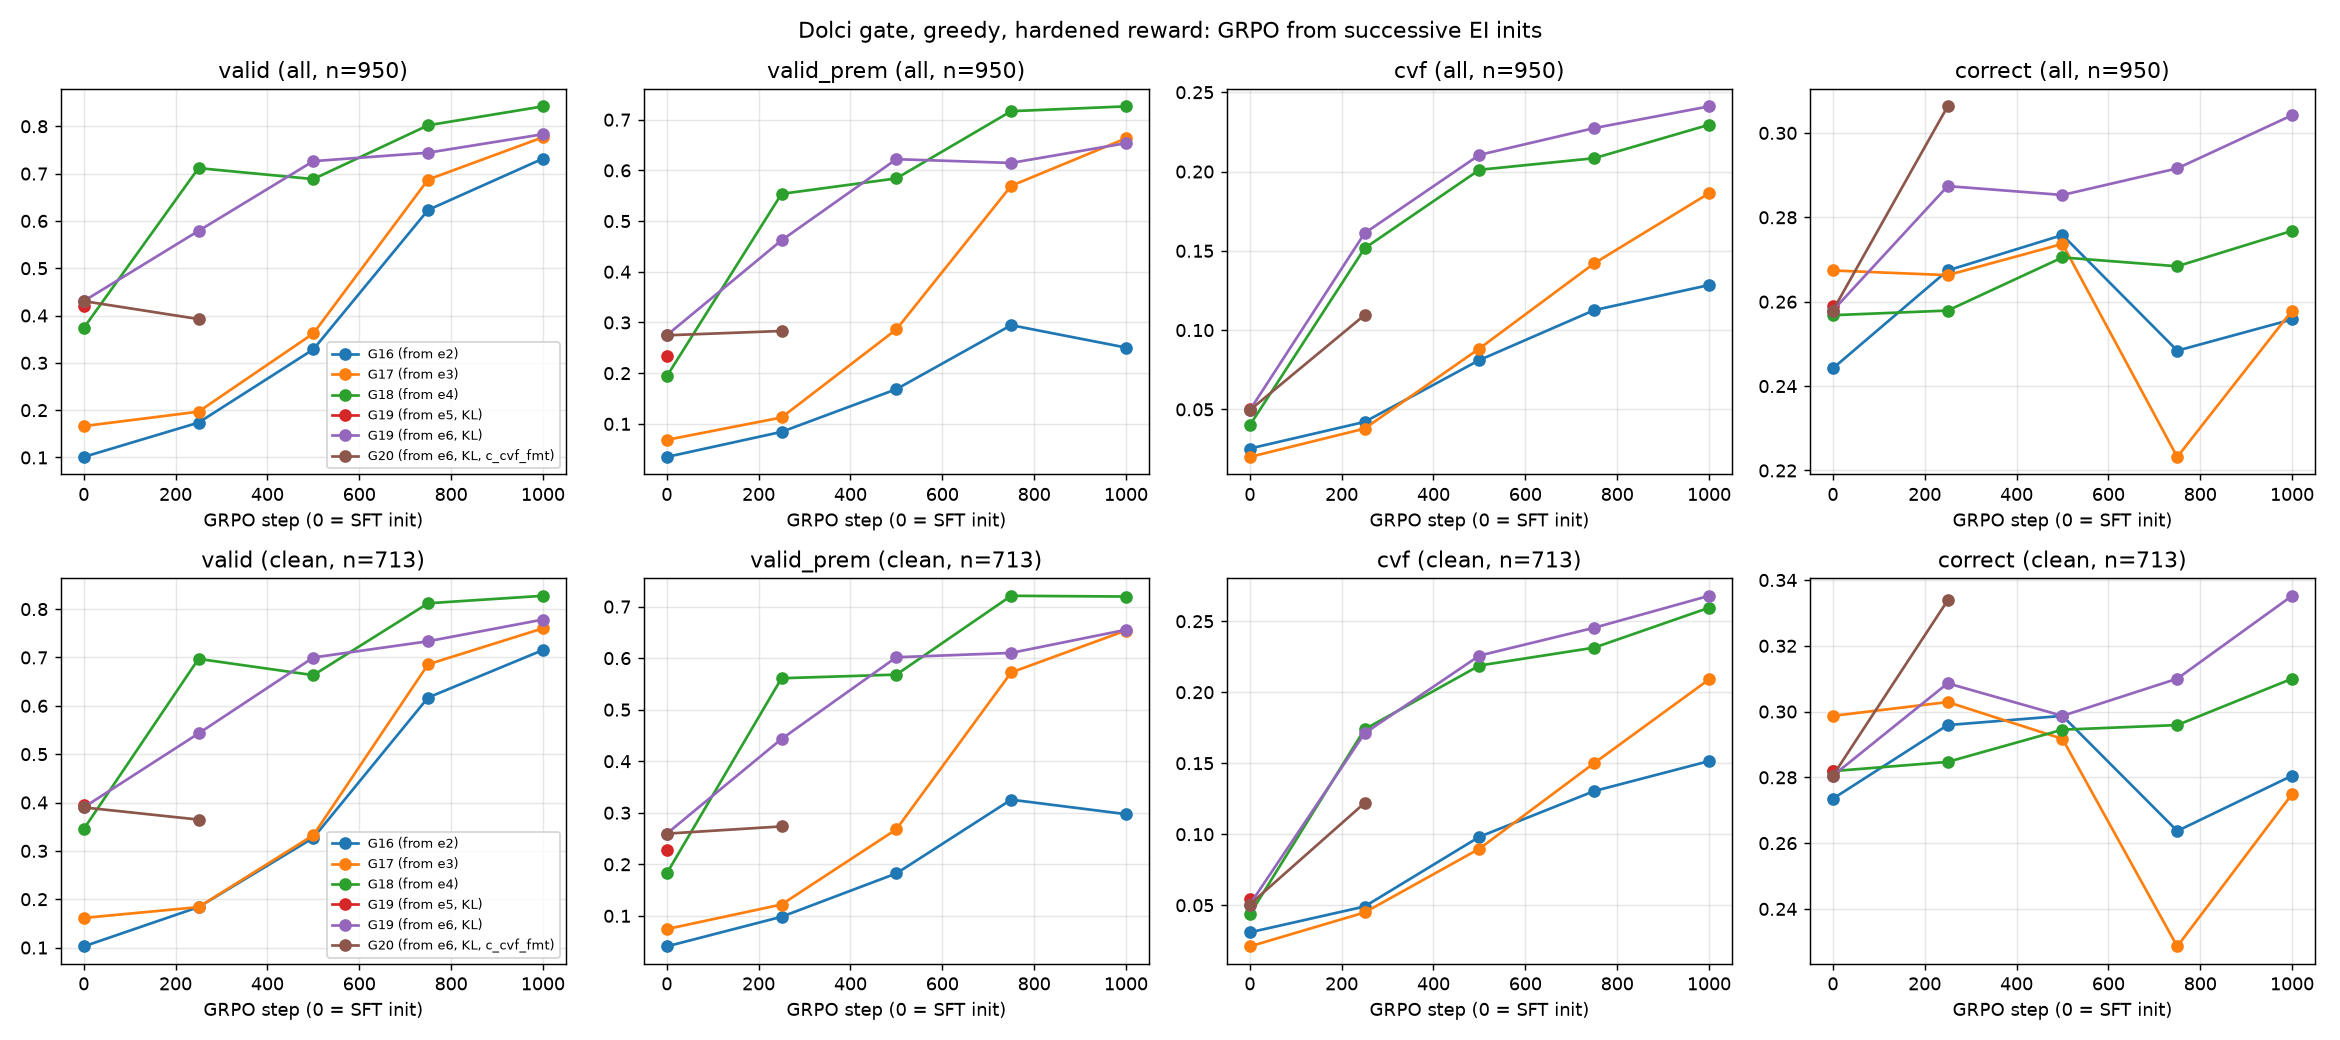
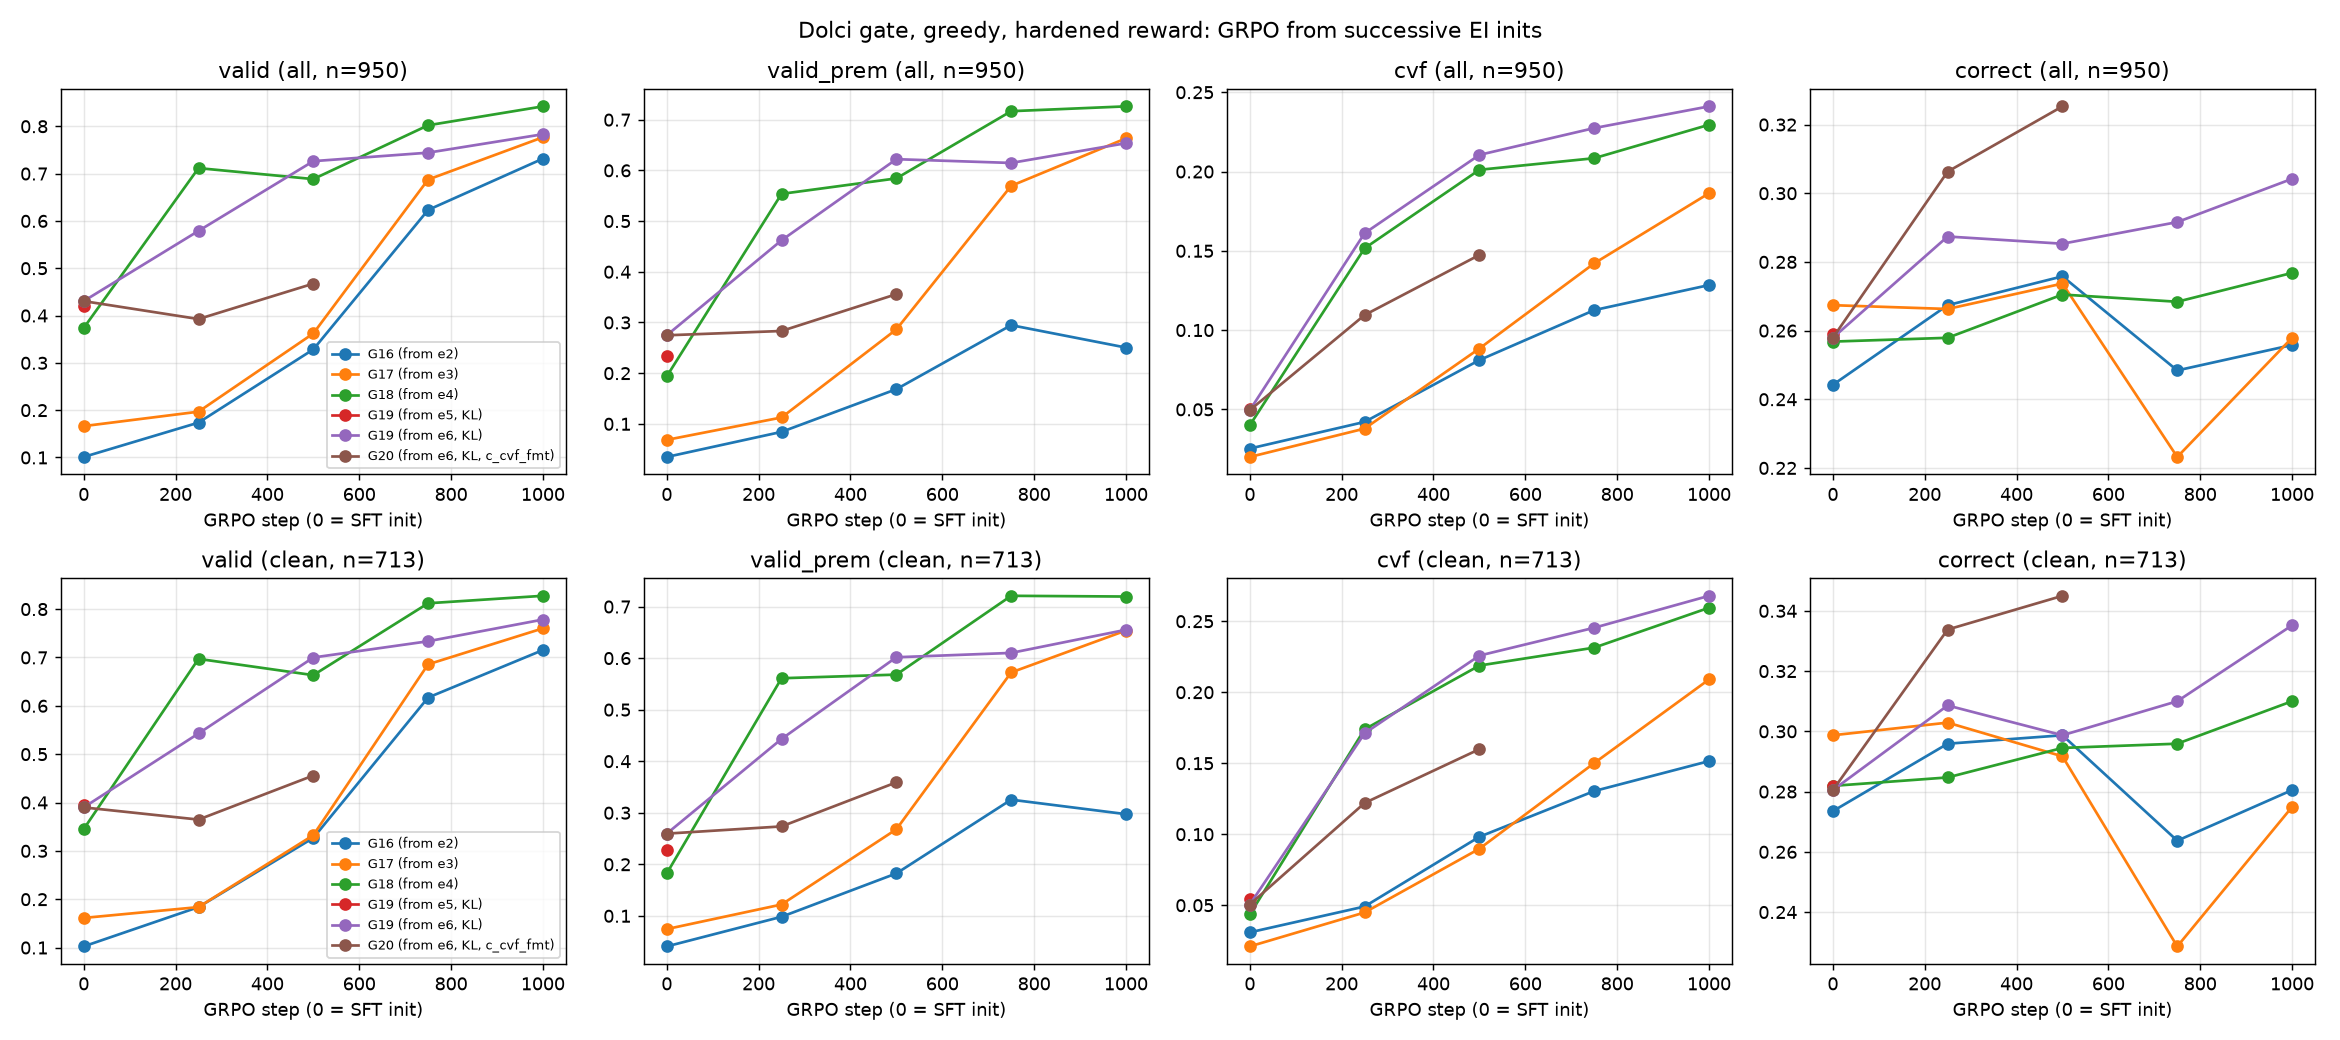
Stage 3: G20@500 gate, correctness .325 (still rising), continue to 750
Claude-Session: https://claude.ai/code/session_01WnQYXLXLcnkw9LdZ4eJP3w

diff --git a/reports/2026-10-04_stage3_az.md b/reports/2026-10-04_stage3_az.md
@@ -1074,3 +1074,27 @@ G20 is the G19 recipe (from e6, KL .02, overlong and no-proof penalties) with re
   are kept on alex ($WORK) for test-time MCTS / gate evals.
 - Takeaway: online AZ with an ExIt NTP term is unstable past a few hundred iterations. Any final comparison should use
   the best-checkpoint (early-stopped) numbers, not the last iteration. Figure: `reports/figures/az_online_curves.png`.
+
+### Result 16ak (2026-10-08 ~22:00): G20@500, correctness still rising; G20 continues to 750
+
+Dolci gate (950 items, greedy, libext checker), hardened rescore (`analysis/gate_hardened_rescore.md`, figure
+`reports/figures/gate_hardened_rescore.png`):
+
+| | step | valid_prem | cvf | correct | clean correct | gen-test valid | gen-test acc | train Dolci correct | train valid_prem | zero-std groups |
+|---|---|---|---|---|---|---|---|---|---|---|
+| e6 (SFT) | 0 | .275 | .050 | .258 | .281 | | | | | |
+| G19 (cvf_fmt) | 500 | .622 | .210 | .285 | .299 | | | | | |
+| G19 (cvf_fmt) | 1000 | .654 | .241 | .304 | .335 | | | | | |
+| G20 (c_cvf_fmt) | 250 | .283 | .110 | .306 | .334 | .789 | .931 | .277 | .446 | .63 |
+| G20 (c_cvf_fmt) | 500 | .356 | .147 | **.325** | **.345** | .824 | .907 | .350 | .519 | .70 |
+
+(Training columns are means over the 50 steps before each checkpoint.)
+
+- **The stop rule did not trigger.** Correctness rose by +.019 (about 1.3 SE at n = 950). G20@500 now has the highest
+  gate correctness of any GRPO arm started from e6; G19 needed 1000 steps to reach .304. Training Dolci correctness is
+  climbing steadily (.28 → .35).
+- **Validity follows correctness.** The shaped reward (correct × format × (0.5 + 0.5·valid·prem)) leaves validity well
+  below G19 (.36 vs .62), but it is growing (+.07 since 250). In-domain generator validity is up to .82.
+- **Cost:** 70% of groups have zero reward variance, so the share of prompts that give no learning signal is growing.
+- **Next:** gate at 750 (about 5–6 h at 75–110 s/step). If correctness gains < .01 by then, stop G20 and pick a recipe:
+  G19 (validity first) vs G20 (correctness first), or a curriculum that switches the reward.

diff --git a/analysis/gate_hardened_rescore.md b/analysis/gate_hardened_rescore.md
@@ -26,3 +26,4 @@ valid = rlvl strict; valid_prem = valid with premise numbers stated (the cvf rew
 | G19 (from e6, KL)@750 | 750 | 0.744 | 0.615 | 0.227 | 0.292 | 0.610 | 0.245 | 0.310 |
 | G19 (from e6, KL)@1000 | 1000 | 0.783 | 0.654 | 0.241 | 0.304 | 0.655 | 0.268 | 0.335 |
 | G20 (from e6, KL, c_cvf_fmt)@250 | 250 | 0.393 | 0.283 | 0.110 | 0.306 | 0.274 | 0.122 | 0.334 |
+| G20 (from e6, KL, c_cvf_fmt)@500 | 500 | 0.467 | 0.356 | 0.147 | 0.325 | 0.359 | 0.160 | 0.345 |
